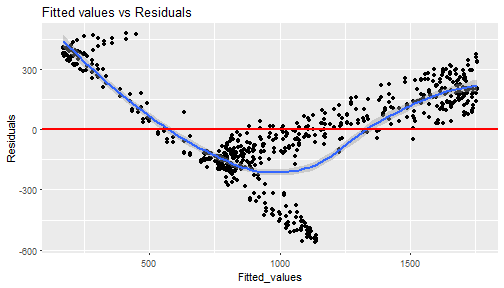
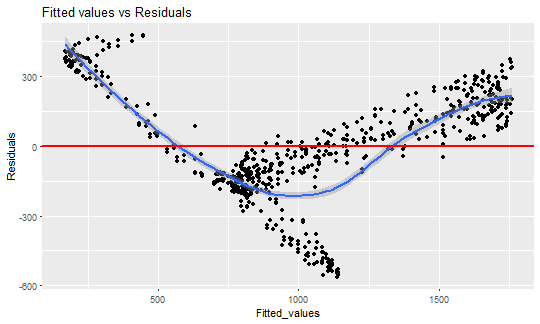
changing something in lm

diff --git a/_posts/2016-11-28-Forecast-double-seasonal-time-series-with-multiple-linear-regression-in-R.md b/_posts/2016-11-28-Forecast-double-seasonal-time-series-with-multiple-linear-regression-in-R.md
@@ -55,7 +55,7 @@ An interesting fact is that the consumption of the industry *Food Sales & Storag
  
 ### Multiple linear regression model for double seasonal time series
  
-The aim of the multiple linear regression is to model dependent variable (output) by independent variables (inputs). Another target can be to analyze influence (correlation) of independent variables to the dependent variable. Like in the previous post, we want to forecast consumption one week ahead, so regression model must be constructed that way. Variables (inputs) will be of two types of seasonal dummy variables - daily (\\( d_1, \dots, d_{48} \\)) and weekly (\\( w_1, \dots, w_6 \\)). In the case of the daily variable, there will be \\( 1 \\), when the consumption during the day will be measured at the particular time, otherwise \\( 0 \\). In the case of the week variable there will be \\( 1 \\), when the consumption is measured at the particular day of the week, otherwise \\( 0 \\).
+The aim of the multiple linear regression is to model dependent variable (output) by independent variables (inputs). Another target can be to analyze influence (correlation) of independent variables to the dependent variable. Like in the previous post, we want to forecast consumption one week ahead, so regression model must capture weekly pattern (seasonality). Variables (inputs) will be of two types of seasonal dummy variables - daily (\\( d_1, \dots, d_{48} \\)) and weekly (\\( w_1, \dots, w_6 \\)). In the case of the daily variable, there will be \\( 1 \\), when the consumption during the day will be measured at the particular time, otherwise \\( 0 \\). In the case of the week variable there will be \\( 1 \\), when the consumption is measured at the particular day of the week, otherwise \\( 0 \\).
  
 The regression model can be formally written as:
  
@@ -109,31 +109,19 @@ ggplot(data_r, aes(date_time, value)) +
 
 ![plot of chunk unnamed-chunk-7](/images/unnamed-chunk-7-1.png)
  
-Let's now create the mentioned independent dummy variables and store them in `matrix_train`.
+Let's now create the mentioned independent dummy variables and store all of them in the `matrix_train`. When we are using the method `lm` in **R**, it's simple to define dummy variables in one vector. Just use `as.factor` for some vector of classes. We don't need to create 48 vectors for daily dummy variables and 6 vectors for weekly dummy variables.
 
 {% highlight r %}
 N <- nrow(data_r)
- 
-matrix_train <- matrix(0, nrow = N, ncol = period + 6)
-for(j in 1:period){
-  matrix_train[seq(j, N, by = period), j] <- 1
-}
- 
-# using feature week_num
-for(j in 1:6){
-  matrix_train[data_r[, week_num] == j, period + j] <- 1
-}
- 
-matrix_train <- as.data.frame(cbind(data_r[, value], matrix_train))
- 
-colnames(matrix_train) <- c("Load",
-                            sapply(1:period, function(i) paste("d", i, sep = "")),
-                            sapply(1:6, function(i) paste("w", i, sep = "")))
+window <- N / period # number of days in the train set
+# 1, ..., period, 1, ..., period - and so on for the daily season 
+# using feature "week_num" for the weekly season
+matrix_train <- data.table(Load = data_r[, value],
+                           Daily = as.factor(rep(1:period, window)),
+                           Weekly = as.factor(data_r[, week_num]))
 {% endhighlight %}
  
-Names of the variables are needed due to the clarity of the class of the object `lm` (linear model).
- 
-Let's create our first multiple linear model with the function `lm`.
+Let's create our first multiple linear model with the function `lm`. `lm` automatically add to the linear model intercept, so we must define it now `0`. Also, we can simply put all the variables to the model just by the dot - `.`.
 
 {% highlight r %}
 lm_m_1 <- lm(Load ~ 0 + ., data = matrix_train)
@@ -154,7 +142,7 @@ paste("R-squared: ",
 ## [1] "R-squared:  0.955 , p-value of F test:  0"
 {% endhighlight %}
  
-You can see a nice summary of the linear model, but I will omit them now because of its long length (we have 54 variables). So I will show you only the two most important statistics: R-squared and p-value of F-statistic of the goodness of fit. They seem pretty good.
+You can see a nice summary of the linear model, but I will omit them now because of its long length (we have 54 variables). So I'm showing you only the two most important statistics: R-squared and p-value of F-statistic of the goodness of fit. They seem pretty good.
  
 Let's look at the fitted values.
 
@@ -222,32 +210,13 @@ ggQQ(lm_m_1)
  
 Of course, it is absolutely not normal (points must be close the red line).
  
-What can we do now? Use other regression methods (especially nonlinear ones)? No. Let's think about why this happened. We have seen on fitted values, that measurements during the day were moved constantly by the estimated coefficient of week variable, but the behavior during the day wasn't captured. We need to capture this behavior because especially weekends behave absolutely different. It can be handled by defining **interactions** between day and week dummy variables to the regression model. So we multiply every daily variable with every weekly one. Again, be careful with collinearity and singularity of the model matrix, so we must omit one day variable (for example \\( d_{48} \\)).
+What can we do now? Use other regression methods (especially nonlinear ones)? No. Let's think about why this happened. We have seen on fitted values, that measurements during the day were moved constantly by the estimated coefficient of week variable, but the behavior during the day wasn't captured. We need to capture this behavior because especially weekends behave absolutely different. It can be handled by defining **interactions** between day and week dummy variables to the regression model. So we multiply every daily variable with every weekly one. Again, be careful with collinearity and singularity of the model matrix, so we must omit one daily dummy variable (for example \\( d_{1} \\)). Fortunately, this is done in method `lm` automatically, when we use factors as variables.
  
-In **R** interactions can be defined in the formula, simply this way: `(d1+d2+...+d47):w1 + (d1+d2+...+d47):w2 + ... + (d1+d2+...+d47):w6`.
- 
-Define new formula to our **multiple linear model**, it's now a little bit more complicated:
+Let’s train a second linear model. Interactions should solve the problem, that we saw in the plot of fitted values.
 
 {% highlight r %}
-# First just interactions
-m_interactions <- sapply(50:55, function(x) 
-  paste("(", paste(colnames(matrix_train)[2:48], sep = "", collapse = " + "), "):",
-        colnames(matrix_train)[x], sep = ""))
-m_interactions <- paste(m_interactions, collapse = " + ")
-{% endhighlight %}
- 
-
-{% highlight r %}
-# Whole formula
-frmla <- as.formula(paste(colnames(matrix_train)[1], "~", "0 +",
-                          paste(colnames(matrix_train)[2:ncol(matrix_train)], sep = "",
-                                collapse = " + "), "+", m_interactions))
-{% endhighlight %}
- 
-Let’s train a second linear model. This should solve the problem, that we saw in the plot of fitted values.
-
-{% highlight r %}
-lm_m_2 <- lm(frmla, data = matrix_train)
+lm_m_2 <- lm(Load ~ 0 + Daily + Weekly + Daily:Weekly,
+             data = matrix_train)
 {% endhighlight %}
  
 Look at R-squared of previous model and the new one with interactions:
@@ -269,14 +238,15 @@ Look at the comparison of residuals of two fitted models. Using the interactive 
 
 {% highlight r %}
 ggplot(data.table(Residuals = c(lm_m_1$residuals, lm_m_2$residuals),
-                  Type = rep(c("Previous", "New"), each = nrow(data_r))), 
+                  Type = c(rep("MLR - simple", nrow(data_r)),
+                           rep("MLR with interactions", nrow(data_r)))), 
        aes(Type, Residuals, fill = Type)) +
   geom_boxplot()
  
 ggplotly()
 {% endhighlight %}
  
-<iframe width="800" height="400" frameborder="0" scrolling="no" src="//plot.ly/~PetoLau/4.embed"></iframe>
+<iframe width="750" height="400" frameborder="0" scrolling="no" src="//plot.ly/~PetoLau/4.embed"></iframe>
  
 This is much better than the previous model, it seems that interactions are working.
  
@@ -294,7 +264,7 @@ ggplot(data = datas, aes(date_time, value, group = type, colour = type)) +
        title = "Fit from MLR")
 {% endhighlight %}
 
-![plot of chunk unnamed-chunk-20](/images/unnamed-chunk-20-1.png)
+![plot of chunk unnamed-chunk-18](/images/unnamed-chunk-18-1.png)
  
 
 {% highlight r %}
@@ -306,14 +276,14 @@ ggplot(data = data.table(Fitted_values = lm_m_2$fitted.values,
   labs(title = "Fitted values vs Residuals")
 {% endhighlight %}
 
-![plot of chunk unnamed-chunk-21](/images/unnamed-chunk-21-1.png)
+![plot of chunk unnamed-chunk-19](/images/unnamed-chunk-19-1.png)
  
 
 {% highlight r %}
 ggQQ(lm_m_2)
 {% endhighlight %}
 
-![plot of chunk unnamed-chunk-22](/images/unnamed-chunk-22-1.png)
+![plot of chunk unnamed-chunk-20](/images/unnamed-chunk-20-1.png)
  
 Everything seems much better than in the previous model. The fitted values seem almost perfect.
  
@@ -326,38 +296,22 @@ Again, I build function (as in the previous [post](https://petolau.github.io/For
 {% highlight r %}
 predWeekReg <- function(data, set_of_date){
   
+  # Subsetting the dataset by dates
   data_train <- data[date %in% set_of_date]
   
   N <- nrow(data_train)
+  window <- N / period # number of days in the train set
+  # 1, ..., period, 1, ..., period - and so on for the daily season 
+  # Using feature "week_num" for the weekly season
+  matrix_train <- data.table(Load = data_train[, value],
+                           Daily = as.factor(rep(1:period, window)),
+                           Weekly = as.factor(data_train[, week_num]))
   
-  matrix_train <- matrix(0, nrow = N, ncol = period + 6)
-  for(j in 1:period){
-    matrix_train[seq(j, N, by = period), j] <- 1
-  }
+  # Creation of the model
+  lm_m <- lm(Load ~ 0 + Daily + Weekly + Daily:Weekly, data = matrix_train)
   
-  for(j in 1:6){
-    matrix_train[data_train[, week_num] == j, period + j] <- 1
-  }
-  
-  matrix_train <- as.data.frame(cbind(data_train[, value], matrix_train))
-  
-  colnames(matrix_train) <- c("Load",
-                              sapply(1:period, function(i) paste("d", i, sep = "")),
-                              sapply(1:6, function(i) paste("w", i, sep = "")))
-  
-  # Interactions
-  m_interactions <- sapply(50:55, function(x) 
-    paste("(", paste(colnames(matrix_train)[2:48], sep = "", collapse = " + "), "):",
-                              colnames(matrix_train)[x], sep = ""))
-  m_interactions <- paste(m_interactions, collapse = " + ")
-  frmla <- as.formula(paste(colnames(matrix_train)[1], "~", "0 +",
-                            paste(colnames(matrix_train)[2:ncol(matrix_train)],
-                                  sep = "", collapse = " + "),
-                            "+", m_interactions))
-  
-  lm_m <- lm(frmla, data = matrix_train)
-  
-  pred_week <- predict(lm_m, matrix_train[1:(7*period), -1])
+  # Creation of the forecast for one week ahead
+  pred_week <- predict(lm_m, matrix_train[1:(7*period), -1, with = FALSE])
   
   return(as.vector(pred_week))
 }
@@ -372,7 +326,7 @@ mape <- function(real, pred){
 {% endhighlight %}
  
 Now we are ready to produce forecasts. I set training set of the length of two weeks - experimentally proved. In experiments, a whole data set of the length of one year is used, so a forecast for 50 weeks will be produced. A sliding window approach for training is used.
-Produce (compute) forecast for every type of industry (4), to see differences between them:
+Let's produce (compute) forecast for every type of industry (4), to see differences between them:
 
 {% highlight r %}
 n_weeks <- floor(length(n_date)/7) - 2
@@ -408,7 +362,7 @@ lm_err_mape_4 <- sapply(0:(n_weeks-1), function(i)
        lm_pred_weeks_4[, i+1]))
 {% endhighlight %}
  
-Similarly you can do this with the function `predWeek` from the previous post. I used STL+ARIMA method to compare MLR with interactions. Here is the `plotly` of MAPE:
+Similarly, you can do this with the function `predWeek` from the previous post. I used STL+ARIMA method to compare with the MLR with interactions. Here is the `plotly` of MAPEs:
  
 <iframe width="800" height="400" frameborder="0" scrolling="no" src="//plot.ly/~PetoLau/2.embed"></iframe>
  
